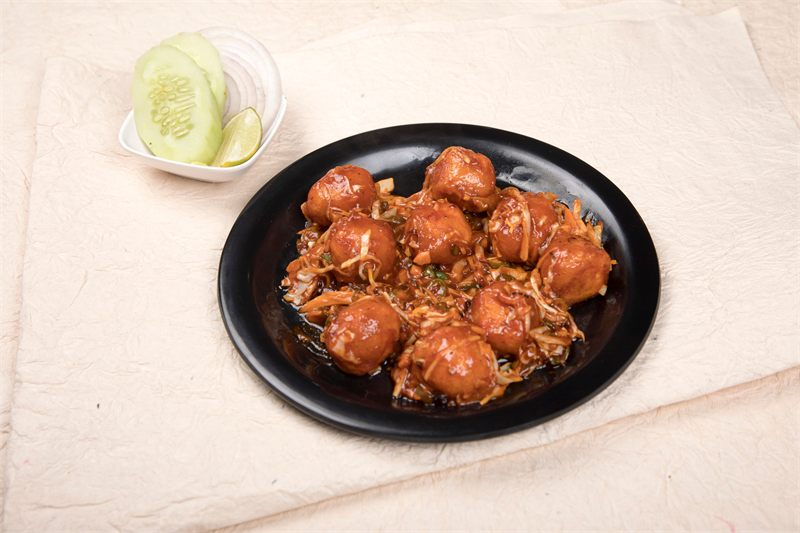
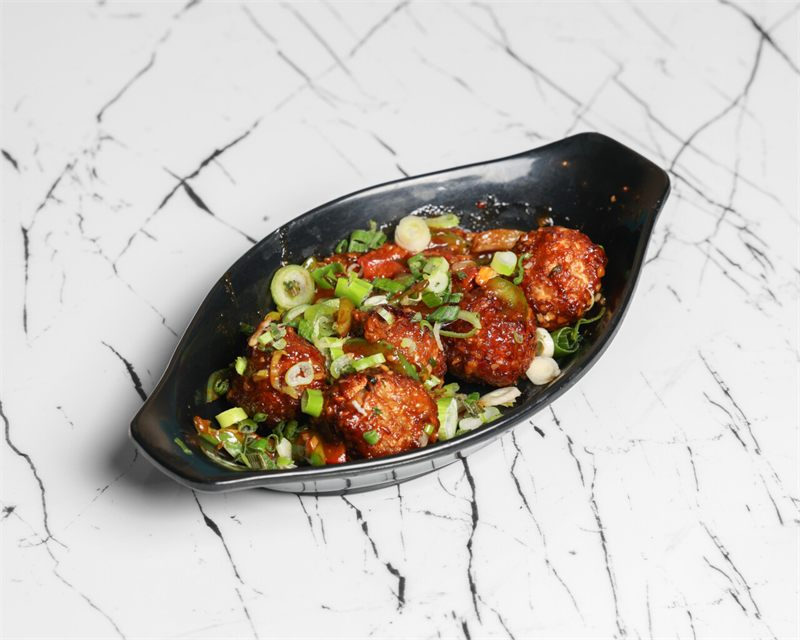
replace some menu item images

diff --git a/src/data/menuPhotos.ts b/src/data/menuPhotos.ts
@@ -24,7 +24,6 @@ export const MENU_PHOTOS = {
   "beetroot-juice": { title: "Beetroot juice", author: "Nikitha Jotheswari", license: "CC BY-SA 4.0", source: "https://commons.wikimedia.org/wiki/File:Beetroot_juice.jpg" },
   "bhel-puri": { title: "Bhel puri chat, photographed in West Bengal, India, September 24, 2024", author: "Billjones94", license: "CC0", source: "https://commons.wikimedia.org/wiki/File:Bhel_puri_chat,_photographed_in_West_Bengal,_India,_September_24,_2024.jpg" },
   "black-coffee": { title: "Cup of black coffee", author: "ସୁଭ ପା/Subhashish Panigrahi", license: "CC BY-SA 3.0", source: "https://commons.wikimedia.org/wiki/File:Cup_of_black_coffee.jpg" },
-  "brinjal-masala": { title: "Bharali Vangi (Stuffed Brinjal Curry)", author: "Nilekha", license: "CC BY-SA 4.0", source: "https://commons.wikimedia.org/wiki/File:Bharali_Vangi_(Stuffed_Brinjal_Curry).jpg" },
   "brownie": { title: "Sizzling Brownie with Vanilla Ice cream", author: "Bingo2310", license: "CC BY-SA 4.0", source: "https://commons.wikimedia.org/wiki/File:Sizzling_Brownie_with_Vanilla_Ice_cream.jpg" },
   "butter-naan": { title: "Butter Naan Flatbread from North India", author: "Ravi Dwivedi", license: "CC BY-SA 4.0", source: "https://commons.wikimedia.org/wiki/File:Butter_Naan_Flatbread_from_North_India.jpg" },
   "butter-roti": { title: "Butter-tandoori-roti", author: "Ravi Dwivedi", license: "CC BY-SA 4.0", source: "https://commons.wikimedia.org/wiki/File:Butter-tandoori-roti.jpg" },
@@ -36,7 +35,6 @@ export const MENU_PHOTOS = {
   "chilli-paneer": { title: "A full plate chilli paneer in Kolkata, West Bengal", author: "Billjones94", license: "CC BY-SA 4.0", source: "https://commons.wikimedia.org/wiki/File:A_full_plate_chilli_paneer_in_Kolkata,_West_Bengal.jpg" },
   "chilli-parotta": { title: "Chilli parotta", author: "Aashika vayila", license: "CC BY-SA 4.0", source: "https://commons.wikimedia.org/wiki/File:Chilli_parotta.jpg" },
   "chocolate-dosa": { title: "Chocolate dosa by pradeep chamaria", author: "Pradeep Chamaria", license: "CC BY-SA 4.0", source: "https://commons.wikimedia.org/wiki/File:Chocolate_dosa_by_pradeep_chamaria.jpg" },
-  "chole-bhature": { title: "Chole Bhature 1", author: "Gaurav Dhwaj Khadka", license: "CC BY-SA 4.0", source: "https://commons.wikimedia.org/wiki/File:Chole_Bhature_1.jpg" },
   "chutney": { title: "Coconut Chutney and Tomato Ginger Chutney", author: "Avinashvh1n1", license: "CC BY-SA 4.0", source: "https://commons.wikimedia.org/wiki/File:Coconut_Chutney_and_Tomato_Ginger_Chutney.JPG" },
   "curd-rice": { title: "Curd Rice", author: "Sudharshan Shanmugasundaram", license: "CC BY-SA 4.0", source: "https://commons.wikimedia.org/wiki/File:Curd_Rice.jpg" },
   "dahi-puri": { title: "Dahi puri 3", author: "Vrindapl", license: "CC BY-SA 4.0", source: "https://commons.wikimedia.org/wiki/File:Dahi_puri_3.jpg" },
@@ -54,7 +52,6 @@ export const MENU_PHOTOS = {
   "ghee-podi-idli": { title: "Ghee Podi Idli - Murugan Idli Shop, Chennai - TamilNadu - PXL0246", author: "Harikrishnan N", license: "CC BY-SA 4.0", source: "https://commons.wikimedia.org/wiki/File:Ghee_Podi_Idli_-_Murugan_Idli_Shop,_Chennai_-_TamilNadu_-_PXL0246.jpg" },
   "ghee-rice": { title: "Ghee Rice", author: "Triv.rao", license: "CC BY-SA 4.0", source: "https://commons.wikimedia.org/wiki/File:Ghee_Rice.jpg" },
   "ghee-roast": { title: "Ghee Roast Dosa", author: "Soooji", license: "CC BY-SA 4.0", source: "https://commons.wikimedia.org/wiki/File:Ghee_Roast_Dosa.jpg" },
-  "gobi-65": { title: "Gobi 65 (cauliflower fry)", author: "Alvinjesusyouth", license: "CC BY-SA 4.0", source: "https://commons.wikimedia.org/wiki/File:Gobi_65_(cauliflower_fry).jpg" },
   "gobi-manchurian": { title: "Delicious Gobi Manchurian", author: "Ranjitkumardharshini", license: "CC0", source: "https://commons.wikimedia.org/wiki/File:Delicious_Gobi_Manchurian.jpg" },
   "gulab-jamun": { title: "Two Gulab Jamun in a plate 01", author: "Suyash.dwivedi", license: "CC BY-SA 4.0", source: "https://commons.wikimedia.org/wiki/File:Two_Gulab_Jamun_in_a_plate_01.jpg" },
   "gulab-jamun-icecream": { title: "Gulab jamun with Vanilla Ice cream", author: "Yousufwerewolf", license: "CC BY-SA 4.0", source: "https://commons.wikimedia.org/wiki/File:Gulab_jamun_with_Vanilla_Ice_cream.jpg" },
@@ -89,18 +86,15 @@ export const MENU_PHOTOS = {
   "masala-vada": { title: "Masala vada 02", author: "Turbo1232112321", license: "CC BY-SA 4.0", source: "https://commons.wikimedia.org/wiki/File:Masala_vada_02.JPG" },
   "matar-paneer": { title: "Matar-Paneer", author: "Mdsmds0", license: "CC BY-SA 4.0", source: "https://commons.wikimedia.org/wiki/File:Matar-Paneer.JPG" },
   "matka-kulfi": { title: "Matka Kulfi (688295020)", author: "Danial Chitnis from London, UK", license: "CC BY 2.0", source: "https://commons.wikimedia.org/wiki/File:Matka_Kulfi_(688295020).jpg" },
-  "medu-vada": { title: "Medu Vada with chutnies", author: "Ravi Talwar", license: "CC BY 2.0", source: "https://commons.wikimedia.org/wiki/File:Medu_Vada_with_chutnies.jpg" },
   "milkshake": { title: "Strawberry Milkshake Whipped Cream", author: "Alex Gorzen", license: "CC BY-SA 2.0", source: "https://commons.wikimedia.org/wiki/File:Strawberry_Milkshake_Whipped_Cream.jpg" },
   "mini-idli": { title: "Mini Idlis in Sambar", author: "Nitin Desai", license: "CC BY-SA 4.0", source: "https://commons.wikimedia.org/wiki/File:Mini_Idlis_in_Sambar.JPG" },
   "mini-meals": { title: "A Thali, famous South Indian meal served on a banana leaf", author: "Melanie M", license: "CC BY 2.0", source: "https://commons.wikimedia.org/wiki/File:A_Thali,_famous_South_Indian_meal_served_on_a_banana_leaf.jpg" },
-  "mini-tiffin": { title: "South Indian Tiffin Items 2", author: "Sushant savla", license: "CC BY-SA 4.0", source: "https://commons.wikimedia.org/wiki/File:South_Indian_Tiffin_Items_2.jpg" },
   "mixed-juice": { title: "Juices - Pho, Brighton 2026-08-14", author: "Andy Li", license: "CC0", source: "https://commons.wikimedia.org/wiki/File:Juices_-_Pho,_Brighton_2026-08-14.jpg" },
   "mogo": { title: "Friedmanioc", author: "Bdieu", license: "CC BY 3.0", source: "https://commons.wikimedia.org/wiki/File:Friedmanioc.jpg" },
   "mushroom-65": { title: "Ghee Pepper Mushroom Fry", author: "Gowthydaas", license: "CC BY-SA 4.0", source: "https://commons.wikimedia.org/wiki/File:Ghee_Pepper_Mushroom_Fry.jpg" },
   "mushroom-biryani": { title: "Dished out Mushroom Biryani", author: "31Sweety1990", license: "CC BY-SA 4.0", source: "https://commons.wikimedia.org/wiki/File:Dished_out_Mushroom_Biryani.jpg" },
   "mushroom-fried-rice": { title: "\"Mushroom Fried Rice\"", author: "Thamizhpparithi Maari", license: "CC BY-SA 4.0", source: "https://commons.wikimedia.org/wiki/File:%22Mushroom_Fried_Rice%22.jpg" },
   "mushroom-manchurian": { title: "Mushroom Manchurian dry", author: "Anuradhayeluri", license: "CC BY-SA 4.0", source: "https://commons.wikimedia.org/wiki/File:Mushroom_Manchurian_dry.jpg" },
-  "mysore-bonda": { title: "Goli baje or Mangalore bajji", author: "Rayabhari", license: "CC BY-SA 3.0", source: "https://commons.wikimedia.org/wiki/File:Goli_baje_or_Mangalore_bajji.jpg" },
   "mysore-masala-dosa": { title: "Mysore Masala Dosa", author: "Arjunm101", license: "CC BY-SA 3.0", source: "https://commons.wikimedia.org/wiki/File:Mysore_Masala_Dosa.jpg" },
   "naan": { title: "Naan baked in Tandoor", author: "Ravi Dwivedi", license: "CC BY-SA 4.0", source: "https://commons.wikimedia.org/wiki/File:Naan_baked_in_Tandoor.jpg" },
   "north-indian-thali": { title: "North Indian veg thali", author: "Marajozkee", license: "CC BY-SA 4.0", source: "https://commons.wikimedia.org/wiki/File:North_Indian_veg_thali.jpg" },
@@ -110,18 +104,14 @@ export const MENU_PHOTOS = {
   "palak-paneer": { title: "Palak Paneer curry on plate", author: "Daniel Zemans", license: "CC BY 2.0", source: "https://commons.wikimedia.org/wiki/File:Palak_Paneer_curry_on_plate.jpg" },
   "paneer-65": { title: "Paneer Pakora - Cottage Cheese Fritters", author: "Vidurmayor", license: "CC BY-SA 4.0", source: "https://commons.wikimedia.org/wiki/File:Paneer_Pakora_-_Cottage_Cheese_Fritters.jpg" },
   "paneer-bhurji": { title: "Paneer Bhurji", author: "Mradulkapoor", license: "CC BY-SA 4.0", source: "https://commons.wikimedia.org/wiki/File:Paneer_Bhurji.jpg" },
-  "paneer-butter-masala": { title: "Paneer butter masala 3", author: "Gannu03", license: "CC BY-SA 4.0", source: "https://commons.wikimedia.org/wiki/File:Paneer_butter_masala_3.jpg" },
   "paneer-jalfrezi": { title: "Paneer Jalfrezi - Worthing Indian Cafe & Bar 2026-04-27", author: "Andy Li", license: "CC0", source: "https://commons.wikimedia.org/wiki/File:Paneer_Jalfrezi_-_Worthing_Indian_Cafe_%26_Bar_2026-04-27.jpg" },
   "paneer-noodles": { title: "Indian Style Paneer Noodles", author: "Fatimahope", license: "CC BY-SA 4.0", source: "https://commons.wikimedia.org/wiki/File:Indian_Style_Paneer_Noodles.jpg" },
-  "paneer-schezwan": { title: "Paneer schezwan", author: "Vinayrambal", license: "CC BY-SA 4.0", source: "https://commons.wikimedia.org/wiki/File:Paneer_schezwan.jpg" },
-  "paneer-tikka": { title: "Paneer tikka 1", author: "Srikoundinya66", license: "CC BY-SA 4.0", source: "https://commons.wikimedia.org/wiki/File:Paneer_tikka_1.jpg" },
   "paneer-tikka-masala": { title: "Paneer Tikka Masala (2026) 01", author: "Gpkp", license: "CC BY-SA 4.0", source: "https://commons.wikimedia.org/wiki/File:Paneer_Tikka_Masala_(2026)_01.jpg" },
   "pani-puri": { title: "Crispy Pani Puri", author: "Teena Sometimes", license: "CC BY-SA 4.0", source: "https://commons.wikimedia.org/wiki/File:Crispy_Pani_Puri.jpg" },
   "papadum": { title: "Stack of papadums", author: "Windell H. Oskay", license: "CC BY 2.5", source: "https://commons.wikimedia.org/wiki/File:Stack_of_papadums.jpg" },
   "papdi-chaat": { title: "Papdi Aloo Chaat", author: "Avinashvh1n1", license: "CC BY-SA 4.0", source: "https://commons.wikimedia.org/wiki/File:Papdi_Aloo_Chaat.jpg" },
   "parotta": { title: "Parotta 01", author: "Ganesh Mohan T", license: "CC BY-SA 4.0", source: "https://commons.wikimedia.org/wiki/File:Parotta_01.jpg" },
   "passion-juice": { title: "Passion fruit juice", author: "Fumikas Sagisavas", license: "CC0", source: "https://commons.wikimedia.org/wiki/File:Passion_fruit_juice.jpg" },
-  "pav-bhaji": { title: "Pav bhaji", author: "Dforest", license: "CC BY-SA 4.0", source: "https://commons.wikimedia.org/wiki/File:Pav_bhaji.jpg" },
   "pav-bhaji-dosa": { title: "Pav Bhaji Dosa", author: "Mishti Malik", license: "CC BY-SA 4.0", source: "https://commons.wikimedia.org/wiki/File:Pav_Bhaji_Dosa.JPG" },
   "peas-masala": { title: "Easy Green Peas and Vegetable Curry (15727510008)", author: "Yummy O Yummy", license: "CC BY 2.0", source: "https://commons.wikimedia.org/wiki/File:Easy_Green_Peas_and_Vegetable_Curry_(15727510008).jpg" },
   "pista-kulfi": { title: "Pista Kulfi", author: "Ravi Talwar", license: "CC BY-SA 4.0", source: "https://commons.wikimedia.org/wiki/File:Pista_Kulfi.jpg" },
@@ -130,7 +120,6 @@ export const MENU_PHOTOS = {
   "plain-rice": { title: "Steamed rice in bowl 01", author: "Anna Frodesiak", license: "CC0", source: "https://commons.wikimedia.org/wiki/File:Steamed_rice_in_bowl_01.jpg" },
   "podi-idli": { title: "Podi Idli - Mini Idli dipped in Podi", author: "Rohitvalecha", license: "CC BY-SA 4.0", source: "https://commons.wikimedia.org/wiki/File:Podi_Idli_-_Mini_Idli_dipped_in_Podi.jpg" },
   "podi-uttapam": { title: "Ghee Podi Onion Uthappam - Murugan Idli Shop, Chennai - TamilNadu - PXL1034", author: "Harikrishnan N", license: "CC BY-SA 4.0", source: "https://commons.wikimedia.org/wiki/File:Ghee_Podi_Onion_Uthappam_-_Murugan_Idli_Shop,_Chennai_-_TamilNadu_-_PXL1034.jpg" },
-  "poori-masala": { title: "Poori with Potato Masala", author: "Nundhaa", license: "CC BY-SA 4.0", source: "https://commons.wikimedia.org/wiki/File:Poori_with_Potato_Masala.JPG" },
   "punjabi-samosa": { title: "Punjabi Samosa", author: "Miansari66", license: "CC0", source: "https://commons.wikimedia.org/wiki/File:Punjabi_Samosa.JPG" },
   "raita": { title: "Onion raita(Close up)", author: "Bssasidhar", license: "CC BY-SA 4.0", source: "https://commons.wikimedia.org/wiki/File:Onion_raita(Close_up).jpg" },
   "rasam": { title: "Rasam", author: "Miansari66", license: "Public domain", source: "https://commons.wikimedia.org/wiki/File:Rasam.JPG" },
@@ -148,7 +137,6 @@ export const MENU_PHOTOS = {
   "samosa-chaat": { title: "Samosa Chaat", author: "Gaurav Dhwaj Khadka", license: "CC BY-SA 4.0", source: "https://commons.wikimedia.org/wiki/File:Samosa_Chaat.jpg" },
   "schezwan-fried-rice": { title: "Fried rice schezwan style", author: "Urniel", license: "CC BY-SA 4.0", source: "https://commons.wikimedia.org/wiki/File:Fried_rice_schezwan_style.jpg" },
   "schezwan-noodles": { title: "Schezwan noodles", author: "Gauvdhami", license: "CC BY-SA 4.0", source: "https://commons.wikimedia.org/wiki/File:Schezwan_noodles.jpg" },
-  "sev-puri": { title: "Sev Puri", author: "https://www.flickr.com/photos/feastguru_kirti/", license: "CC BY-SA 2.0", source: "https://commons.wikimedia.org/wiki/File:Sev_Puri.jpg" },
   "soft-drinks": { title: "Soft Drink in Canada", author: "Estabiano", license: "CC0", source: "https://commons.wikimedia.org/wiki/File:Soft_Drink_in_Canada.jpg" },
   "sweet-corn-soup": { title: "Corn soup", author: "Laurier", license: "CC BY-SA 3.0", source: "https://commons.wikimedia.org/wiki/File:Corn_soup.jpg" },
   "thums-up": { title: "Thums Up cans", author: "Vis M", license: "CC BY-SA 4.0", source: "https://commons.wikimedia.org/wiki/File:Thums_Up_cans.jpg" },
@@ -158,13 +146,13 @@ export const MENU_PHOTOS = {
   "veg-kofta": { title: "Kofta Curry (Spiced Dumplings in Gravy)", author: "SristiAwasthi21", license: "CC0", source: "https://commons.wikimedia.org/wiki/File:Kofta_Curry_(Spiced_Dumplings_in_Gravy).jpg" },
   "veg-kolhapuri": { title: "Veg Kolhapuri", author: "Vivekprasad97", license: "CC BY-SA 4.0", source: "https://commons.wikimedia.org/wiki/File:Veg_Kolhapuri.jpg" },
   "veg-kurma": { title: "South Indian Mixed Vegetable Kurma", author: "Deviselvam", license: "CC BY-SA 4.0", source: "https://commons.wikimedia.org/wiki/File:South_Indian_Mixed_Vegetable_Kurma.jpg" },
-  "veg-noodles": { title: "Vegetable Chow Mein in Shillong", author: "ANKAN", license: "CC BY-SA 4.0", source: "https://commons.wikimedia.org/wiki/File:Vegetable_Chow_Mein_in_Shillong.jpg" },
   "veg-pulao": { title: "Vegetable pulao", author: "Subhankar.c", license: "CC BY-SA 4.0", source: "https://commons.wikimedia.org/wiki/File:Vegetable_pulao.JPG" },
   "veg-uttapam": { title: "Mixed Uttapam", author: "Sudiptorana", license: "CC BY-SA 4.0", source: "https://commons.wikimedia.org/wiki/File:Mixed_Uttapam.jpg" },
   "yogurt": { title: "Curd India", author: "Vivekdoshi11", license: "CC BY-SA 4.0", source: "https://commons.wikimedia.org/wiki/File:Curd_India.jpg" },
   // Photos supplied by Yummy Dosa (public/images/menu/photos/own/), not listed on /photo-credits.
   "own/badam-milk": { title: "Badam Milk", author: "Yummy Dosa", license: "Own photo", source: "" },
   "own/badam-milk-jug": { title: "Badam Milk Jug", author: "Yummy Dosa", license: "Own photo", source: "" },
+  "own/brinjal-masala": { title: "Brinjal Masala", author: "Yummy Dosa", license: "Own photo", source: "" },
   "own/butter-dosa": { title: "Butter Dosa", author: "Yummy Dosa", license: "Own photo", source: "" },
   "own/butter-masala-dosa": { title: "Butter Masala Dosa", author: "Yummy Dosa", license: "Own photo", source: "" },
   "own/butter-milk": { title: "Butter Milk", author: "Yummy Dosa", license: "Own photo", source: "" },
@@ -184,6 +172,7 @@ export const MENU_PHOTOS = {
   "own/chilli-garlic-podi-and-cheese-masala-dosa": { title: "Chilli Garlic Podi And Cheese Masala Dosa", author: "Yummy Dosa", license: "Own photo", source: "" },
   "own/chilli-garlic-podi-dosa": { title: "Chilli Garlic Podi Dosa", author: "Yummy Dosa", license: "Own photo", source: "" },
   "own/chilli-paneer-dosa": { title: "Chilli Paneer Dosa", author: "Yummy Dosa", license: "Own photo", source: "" },
+  "own/chole-bhatura": { title: "Chole Bhatura", author: "Yummy Dosa", license: "Own photo", source: "" },
   "own/cone-shaped-ghee-dosa": { title: "Cone Shaped Ghee Dosa", author: "Yummy Dosa", license: "Own photo", source: "" },
   "own/dry-fruit-rava-dosa": { title: "Dry Fruit Rava Dosa", author: "Yummy Dosa", license: "Own photo", source: "" },
   "own/extra-cheese-masala-butter": { title: "Extra Cheese Masala Butter", author: "Yummy Dosa", license: "Own photo", source: "" },
@@ -194,17 +183,21 @@ export const MENU_PHOTOS = {
   "own/ghee-rava-dosa": { title: "Ghee Rava Dosa", author: "Yummy Dosa", license: "Own photo", source: "" },
   "own/ghee-rava-masala-dosa": { title: "Ghee Rava Masala Dosa", author: "Yummy Dosa", license: "Own photo", source: "" },
   "own/ghee-roast": { title: "Ghee Roast", author: "Yummy Dosa", license: "Own photo", source: "" },
+  "own/gobi-65": { title: "Gobi 65", author: "Yummy Dosa", license: "Own photo", source: "" },
   "own/gobi-manchurian": { title: "Gobi Manchurian", author: "Yummy Dosa", license: "Own photo", source: "" },
   "own/hot-drinks": { title: "Hot Drinks", author: "Yummy Dosa", license: "Own photo", source: "" },
   "own/kids-cheese-and-sweet-corn-dosa": { title: "Kids Cheese And Sweet Corn Dosa", author: "Yummy Dosa", license: "Own photo", source: "" },
   "own/kids-sweet-corn-paneer-dosa": { title: "Kids Sweet Corn Paneer Dosa", author: "Yummy Dosa", license: "Own photo", source: "" },
   "own/kootu-poriyal": { title: "Kootu Poriyal", author: "Yummy Dosa", license: "Own photo", source: "" },
   "own/masala-dosa": { title: "Masala Dosa", author: "Yummy Dosa", license: "Own photo", source: "" },
+  "own/medhu-vada": { title: "Medhu Vada", author: "Yummy Dosa", license: "Own photo", source: "" },
+  "own/mini-tiffin": { title: "Mini Tiffin", author: "Yummy Dosa", license: "Own photo", source: "" },
   "own/mix-veg-uthappam": { title: "Mix Veg Uthappam", author: "Yummy Dosa", license: "Own photo", source: "" },
   "own/mushroom-manchurian": { title: "Mushroom Manchurian", author: "Yummy Dosa", license: "Own photo", source: "" },
   "own/mushroom-manchurian-dosa": { title: "Mushroom Manchurian Dosa", author: "Yummy Dosa", license: "Own photo", source: "" },
   "own/mushroom-noodles": { title: "Mushroom Noodles", author: "Yummy Dosa", license: "Own photo", source: "" },
   "own/mushroom-pulao": { title: "Mushroom Pulao", author: "Yummy Dosa", license: "Own photo", source: "" },
+  "own/mysore-bonda": { title: "Mysore Bonda", author: "Yummy Dosa", license: "Own photo", source: "" },
   "own/mysore-masala-butter-dosa": { title: "Mysore Masala Butter Dosa", author: "Yummy Dosa", license: "Own photo", source: "" },
   "own/mysore-masala-cheese-dosa": { title: "Mysore Masala Cheese Dosa", author: "Yummy Dosa", license: "Own photo", source: "" },
   "own/mysore-masala-dosa": { title: "Mysore Masala Dosa", author: "Yummy Dosa", license: "Own photo", source: "" },
@@ -218,26 +211,33 @@ export const MENU_PHOTOS = {
   "own/palak-dosa": { title: "Palak Dosa", author: "Yummy Dosa", license: "Own photo", source: "" },
   "own/palak-masala-dosa": { title: "Palak Masala Dosa", author: "Yummy Dosa", license: "Own photo", source: "" },
   "own/paneer-biryani": { title: "Paneer Biryani", author: "Yummy Dosa", license: "Own photo", source: "" },
+  "own/paneer-butter-masala": { title: "Paneer Butter Masala", author: "Yummy Dosa", license: "Own photo", source: "" },
   "own/paneer-fried-rice": { title: "Paneer Fried Rice", author: "Yummy Dosa", license: "Own photo", source: "" },
   "own/paneer-manchurian": { title: "Paneer Manchurian", author: "Yummy Dosa", license: "Own photo", source: "" },
   "own/paneer-manchurian-dosa": { title: "Paneer Manchurian Dosa", author: "Yummy Dosa", license: "Own photo", source: "" },
   "own/paneer-masala-dosa": { title: "Paneer Masala Dosa", author: "Yummy Dosa", license: "Own photo", source: "" },
   "own/paneer-pulao": { title: "Paneer Pulao", author: "Yummy Dosa", license: "Own photo", source: "" },
+  "own/paneer-schezwan": { title: "Paneer Schezwan", author: "Yummy Dosa", license: "Own photo", source: "" },
   "own/parotta-kurma": { title: "Parotta Kurma", author: "Yummy Dosa", license: "Own photo", source: "" },
+  "own/pav-bhaji": { title: "Pav Bhaji", author: "Yummy Dosa", license: "Own photo", source: "" },
   "own/pav-bhaji-masala-dosa": { title: "Pav Bhaji Masala Dosa", author: "Yummy Dosa", license: "Own photo", source: "" },
   "own/plain-dosa": { title: "Plain Dosa", author: "Yummy Dosa", license: "Own photo", source: "" },
   "own/plain-uthappam": { title: "Plain Uthappam", author: "Yummy Dosa", license: "Own photo", source: "" },
   "own/podi-dosa": { title: "Podi Dosa", author: "Yummy Dosa", license: "Own photo", source: "" },
   "own/podi-masala-dosa": { title: "Podi Masala Dosa", author: "Yummy Dosa", license: "Own photo", source: "" },
+  "own/poori-masala-or-kurma": { title: "Poori Masala Or Kurma", author: "Yummy Dosa", license: "Own photo", source: "" },
   "own/rava-dosa": { title: "Rava Dosa", author: "Yummy Dosa", license: "Own photo", source: "" },
   "own/rava-masala-dosa": { title: "Rava Masala Dosa", author: "Yummy Dosa", license: "Own photo", source: "" },
   "own/sambar": { title: "Sambar", author: "Yummy Dosa", license: "Own photo", source: "" },
   "own/schezwan-noodles-dosa": { title: "Schezwan Noodles Dosa", author: "Yummy Dosa", license: "Own photo", source: "" },
+  "own/sev-puri": { title: "Sev Puri", author: "Yummy Dosa", license: "Own photo", source: "" },
   "own/south-special-chettinad-masala-dosa": { title: "South Special Chettinad Masala Dosa", author: "Yummy Dosa", license: "Own photo", source: "" },
+  "own/tandoori-paneer-tikka": { title: "Tandoori Paneer Tikka", author: "Yummy Dosa", license: "Own photo", source: "" },
   "own/upma": { title: "Upma", author: "Yummy Dosa", license: "Own photo", source: "" },
   "own/veg-ball-in-hot-garlic-sauce": { title: "Veg Ball In Hot Garlic Sauce", author: "Yummy Dosa", license: "Own photo", source: "" },
   "own/veg-manchurian": { title: "Veg Manchurian", author: "Yummy Dosa", license: "Own photo", source: "" },
   "own/veg-manchurian-dosa": { title: "Veg Manchurian Dosa", author: "Yummy Dosa", license: "Own photo", source: "" },
+  "own/veg-noodles": { title: "Veg Noodles", author: "Yummy Dosa", license: "Own photo", source: "" },
   "own/veg-pizza-dosa": { title: "Veg Pizza Dosa", author: "Yummy Dosa", license: "Own photo", source: "" },
 } satisfies Record<string, MenuPhoto>;
 

diff --git a/src/data/menu.ts b/src/data/menu.ts
@@ -44,8 +44,8 @@ const SECTIONS: Section[] = [
     items: [
       ['Masala Papadams (2 Nos)', '£3.49', ['V', 'J'], 'masala-papad', 'Crispy papad topped with a tangy mix of onions, tomatoes, spices and fresh herbs.'],
       ['Masala Vada (4 Nos)', '£4.29', ['V'], 'masala-vada', 'Crispy fried lentil patties mixed with onions, spices and fresh herbs, packed with flavour.'],
-      ['Medhu Vada (2 Nos)', '£3.99', ['V', 'J'], 'medu-vada', 'Crispy, golden deep-fried doughnuts made from ground urad dal, seasoned with pepper, spices and herbs.'],
-      ['Mysore Bonda (4 Nos)', '£5.99', ['V', 'J'], 'mysore-bonda', 'Soft and fluffy fried dumplings made from a spiced gram flour batter, served as a savoury snack.'],
+      ['Medhu Vada (2 Nos)', '£3.99', ['V', 'J'], 'own/medhu-vada', 'Crispy, golden deep-fried doughnuts made from ground urad dal, seasoned with pepper, spices and herbs.'],
+      ['Mysore Bonda (4 Nos)', '£5.99', ['V', 'J'], 'own/mysore-bonda', 'Soft and fluffy fried dumplings made from a spiced gram flour batter, served as a savoury snack.'],
       ['Mix Bajji Platter (6 Nos – Potato / Onion / Chilli)', '£5.99', ['V', 'J'], 'bajji', 'Indian street delight: your choice of the vegetables above coated in besan flour blended with traditional spices and deep fried – served with chutneys.'],
       ['Aloo Bonda (4 Nos)', '£5.49', ['V', 'J'], 'aloo-bonda', 'Spiced potato filling coated in a gram flour batter and deep fried until golden and crispy.'],
       ['Veg Samosas (4 Nos)', '£4.99', ['G', 'V'], 'samosa', 'Golden fried pastry with seasoned mixed vegetables and Indian spices.'],
@@ -62,12 +62,12 @@ const SECTIONS: Section[] = [
       ['Pani Puri', '£5.49', ['J', 'G', 'V'], 'pani-puri', 'Crispy puris filled with spicy, tangy water, tamarind chutney and a mix of potatoes and chickpeas.'],
       ['Bhel Puri', '£5.29', ['J', 'V'], 'bhel-puri', 'Crispy puffed rice with sweet, sour and spicy chutneys and crunchy sev.'],
       ['Dahi Puri', '£5.29', ['J', 'G', 'D'], 'dahi-puri', 'Crispy puris topped with creamy yogurt, tangy tamarind chutney and a blend of spices – a refreshing bite.'],
-      ['Sev Puri', '£5.29', ['G', 'V', 'J'], 'sev-puri', 'Crispy puris topped with mashed potatoes, tangy tamarind chutney, yogurt, sev and a blend of spices for a burst of flavour.'],
+      ['Sev Puri', '£5.29', ['G', 'V', 'J'], 'own/sev-puri', 'Crispy puris topped with mashed potatoes, tangy tamarind chutney, yogurt, sev and a blend of spices for a burst of flavour.'],
       ['Aloo Papdi Chaat', '£5.29', ['J', 'D'], 'papdi-chaat', 'A crunchy and tangy snack made with crispy papdis, spiced potatoes, chutneys, yogurt and sev.'],
       ['Samosa Channa', '£5.99', ['G', 'D'], 'samosa-chaat', 'Crispy samosas served with spiced chickpeas, tangy chutneys, yogurt and a sprinkle of fresh herbs.'],
       ['Aloo Tikki', '£5.99', ['V', 'D'], 'aloo-tikki', 'Crispy potato patties topped with yogurt, chutneys and fresh chaat toppings.'],
       ['Khasta Kachori Chaat', '£5.99', ['G', 'D'], 'kachori-chaat', 'Flaky kachoris topped with spiced chickpeas, tangy chutneys, yogurt and crispy sev.'],
-      ['Pav Bhaji', '£6.29', ['G', 'D'], 'pav-bhaji', 'A flavourful mashed vegetable curry served with buttery pav buns, garnished with onions and lemon.'],
+      ['Pav Bhaji', '£6.29', ['G', 'D'], 'own/pav-bhaji', 'A flavourful mashed vegetable curry served with buttery pav buns, garnished with onions and lemon.'],
     ],
   },
   {
@@ -91,7 +91,7 @@ const SECTIONS: Section[] = [
     group: 'starters',
     items: [
       ['Paneer 65', '£8.79', ['J', 'G', 'D'], 'paneer-65', 'Diced paneer marinated in Yummy Dosa’s special spices and deep fried.'],
-      ['Gobi 65', '£7.79', ['J', 'G', 'V'], 'gobi-65', 'Cauliflower florets marinated in Yummy Dosa’s special spices and deep fried.'],
+      ['Gobi 65', '£7.79', ['J', 'G', 'V'], 'own/gobi-65', 'Cauliflower florets marinated in Yummy Dosa’s special spices and deep fried.'],
       ['Mushroom 65', '£7.79', ['V', 'J', 'G'], 'mushroom-65', 'Fried mushroom marinated in Yummy Dosa’s special spices.'],
       ['Chilli Paneer', '£8.99', ['J', 'G', 'D'], 'chilli-paneer', 'Crispy cottage cheese tossed in Yummy Dosa’s special sauce.'],
       ['Chilli Mushroom', '£7.79', ['J', 'G', 'V'], 'mushroom-manchurian', 'Mushroom with bright Indian and Chinese flavours.'],
@@ -110,11 +110,11 @@ const SECTIONS: Section[] = [
       ['Veg Manchurian', '£7.99', ['V', 'G'], 'own/veg-manchurian', 'Veg dumplings tossed in Yummy Dosa’s special in-house sauce.'],
       ['Gobi Manchurian', '£7.99', ['V', 'G', 'J'], 'own/gobi-manchurian', 'Fried cauliflower florets sautéed in Yummy Dosa’s Manchurian sauce.'],
       ['Paneer Manchurian', '£8.99', ['D', 'G', 'J'], 'own/paneer-manchurian', 'Batter-fried paneer tossed in Yummy Dosa’s special in-house sauce.'],
-      ['Paneer Schezwan', '£8.99', ['D', 'G', 'J'], 'paneer-schezwan', 'Crisp paneer tossed in a sweet and spicy sauce.'],
+      ['Paneer Schezwan', '£8.99', ['D', 'G', 'J'], 'own/paneer-schezwan', 'Crisp paneer tossed in a sweet and spicy sauce.'],
       ['Mushroom Manchurian', '£7.99', ['V', 'G', 'J'], 'own/mushroom-manchurian', 'Fried mushrooms sautéed in Yummy Dosa’s Manchurian sauce.'],
       ['Baby Corn Manchurian', '£7.99', ['V', 'G', 'J'], 'babycorn-manchurian', 'Fried baby corn sautéed in Yummy Dosa’s Manchurian sauce.'],
       ['Veg Ball in Hot Garlic Sauce', '£8.49', ['V', 'G'], 'own/veg-ball-in-hot-garlic-sauce', 'Veg dumplings tossed in Yummy Dosa’s special in-house ginger garlic sauce.'],
-      ['Tandoori Paneer Tikka', '£9.29', ['D'], 'paneer-tikka', 'Chunks of cottage cheese marinated in Yummy Dosa’s special herbs and spices, grilled in a clay oven.'],
+      ['Tandoori Paneer Tikka', '£9.29', ['D'], 'own/tandoori-paneer-tikka', 'Chunks of cottage cheese marinated in Yummy Dosa’s special herbs and spices, grilled in a clay oven.'],
     ],
   },
   {
@@ -131,8 +131,8 @@ const SECTIONS: Section[] = [
       ['Kaima Idly', '£6.49', ['V'], 'kaima-idli', 'Soft idlis tossed in our signature in-house gravy and aromatic South Indian spices.'],
       ['Chappathi Kurma (2 Nos)', '£5.99', ['V', 'G'], 'chapati-kurma', 'Two soft chapathis served with a rich, flavourful mixed vegetable kurma.'],
       ['Parotta Kurma (2 Nos)', '£6.59', ['V', 'G'], 'own/parotta-kurma', 'Two flaky, soft parottas served with a rich, aromatic mixed vegetable kurma – a hearty meal.'],
-      ['Poori Masala or Kurma (2 Nos)', '£6.29', ['V', 'G'], 'poori-masala', 'Two fluffy pooris served with either a spiced potato masala or a rich vegetable kurma.'],
-      ['Chole Bhatura (2 Nos)', '£7.49', ['V', 'G'], 'chole-bhature', 'Two soft, fluffy bhaturas served with a hearty spiced chickpea curry (chole).'],
+      ['Poori Masala or Kurma (2 Nos)', '£6.29', ['V', 'G'], 'own/poori-masala-or-kurma', 'Two fluffy pooris served with either a spiced potato masala or a rich vegetable kurma.'],
+      ['Chole Bhatura (2 Nos)', '£7.49', ['V', 'G'], 'own/chole-bhatura', 'Two soft, fluffy bhaturas served with a hearty spiced chickpea curry (chole).'],
       ['Aloo Parotta (with Curd & Pickle)', '£5.99', ['D', 'G'], 'aloo-paratha', 'Soft, flaky aloo parottas served with refreshing curd and tangy pickle.'],
     ],
   },
@@ -140,7 +140,7 @@ const SECTIONS: Section[] = [
     category: 'Combo Deal (Breakfast & Lunch)',
     group: 'tiffin',
     items: [
-      ['Mini Tiffin', '£8.49', [], 'mini-tiffin', '2 pcs Idly, 1 pc Vada, Ghee Pongal or Upma, Mini Masala Dosa or Poori, and Sweet.'],
+      ['Mini Tiffin', '£8.49', [], 'own/mini-tiffin', '2 pcs Idly, 1 pc Vada, Ghee Pongal or Upma, Mini Masala Dosa or Poori, and Sweet.'],
       ['Mini Lunch Combo', '£8.49', [], 'mini-meals', 'Sambar Rice, Curd Rice, Veg Biryani, Chapathi, Poriyal, Sweet, Papadam and Pickle.'],
     ],
   },
@@ -259,7 +259,7 @@ const SECTIONS: Section[] = [
     group: 'curries',
     items: [
       ['Paneer Tikka Masala', '£7.99', ['D'], 'paneer-tikka-masala', 'Grilled paneer cubes cooked in a rich, creamy tomato-based gravy with aromatic spices.'],
-      ['Paneer Butter Masala', '£8.79', ['D', 'J'], 'paneer-butter-masala', 'Soft paneer cubes cooked in a rich, creamy tomato gravy with butter and aromatic spices.'],
+      ['Paneer Butter Masala', '£8.79', ['D', 'J'], 'own/paneer-butter-masala', 'Soft paneer cubes cooked in a rich, creamy tomato gravy with butter and aromatic spices.'],
       ['Palak Paneer', '£8.79', ['D', 'J'], 'palak-paneer', 'Paneer cubes cooked in a smooth, flavourful spinach gravy with spices.'],
       ['Kadai Paneer Punjabi', '£8.99', ['D'], 'kadai-paneer', 'Paneer cubes cooked in a spicy, tangy tomato gravy with bell peppers, onions and aromatic spices, served in a traditional kadai.'],
       ['Paneer Bhurji', '£8.99', ['D', 'J'], 'paneer-bhurji', 'Scrambled paneer cooked with onions, tomatoes and spices – flavourful and protein-rich.'],
@@ -274,7 +274,7 @@ const SECTIONS: Section[] = [
       ['Kaju Masala (Sweet or Spicy)', '£8.79', ['D', 'N'], 'kaju-masala', 'Shallow-fried shredded paneer, cashews, potatoes and raisins cooked in a rich gravy.'],
       ['Malai Kofta (Sweet)', '£8.29', ['D', 'N'], 'malai-kofta', 'Shallow-fried shredded cottage cheese dumplings cooked in a rich, smooth gravy.'],
       ['Veg Kofta (Spicy)', '£8.29', ['J', 'V', 'G'], 'veg-kofta', 'Little spice bombs made from mixed vegetables, added to the gravy.'],
-      ['Brinjal Masala', '£7.99', ['V'], 'brinjal-masala', 'An Indian curried dish made with aubergines.'],
+      ['Brinjal Masala', '£7.99', ['V'], 'own/brinjal-masala', 'An Indian curried dish made with aubergines.'],
       ['Mutter Paneer', '£8.79', ['D'], 'matar-paneer', 'Paneer and green peas cooked in a spicy onion-tomato masala.'],
       ['Aloo Gobi', '£7.49', ['J', 'V'], 'aloo-gobi', 'Potatoes (aloo) and cauliflower (gobi) cooked with Indian spices, aromatics and herbs.'],
     ],
@@ -305,7 +305,7 @@ const SECTIONS: Section[] = [
       ['Paneer Fried Rice', '£8.29', ['J', 'D'], 'own/paneer-fried-rice', 'Long grain basmati rice cooked with paneer and whole spices tempered in ghee.'],
       ['Mushroom Fried Rice', '£7.99', ['J', 'V'], 'mushroom-fried-rice', 'Long grain basmati rice cooked with mushroom and whole spices tempered in ghee.'],
       ['Garlic Fried Rice', '£7.49', ['V'], 'garlic-fried-rice', 'Basmati rice sautéed with shredded garlic.'],
-      ['Veg Noodles', '£7.29', ['V', 'J', 'G'], 'veg-noodles', 'A Chinese classic: steamed noodles cooked with mixed vegetables and garnished with scallions.'],
+      ['Veg Noodles', '£7.29', ['V', 'J', 'G'], 'own/veg-noodles', 'A Chinese classic: steamed noodles cooked with mixed vegetables and garnished with scallions.'],
       ['Schezwan Noodles', '£7.59', ['G', 'V'], 'schezwan-noodles', 'Noodles topped with sliced vegetables in Schezwan sauce.'],
       ['Paneer Noodles', '£8.29', ['G', 'J'], 'paneer-noodles', 'Noodles tossed with onions, capsicum and paneer.'],
       ['Mushroom Noodles', '£7.99', ['V', 'J', 'G'], 'own/mushroom-noodles', 'Noodles tossed with onions, capsicum and mushroom.'],
